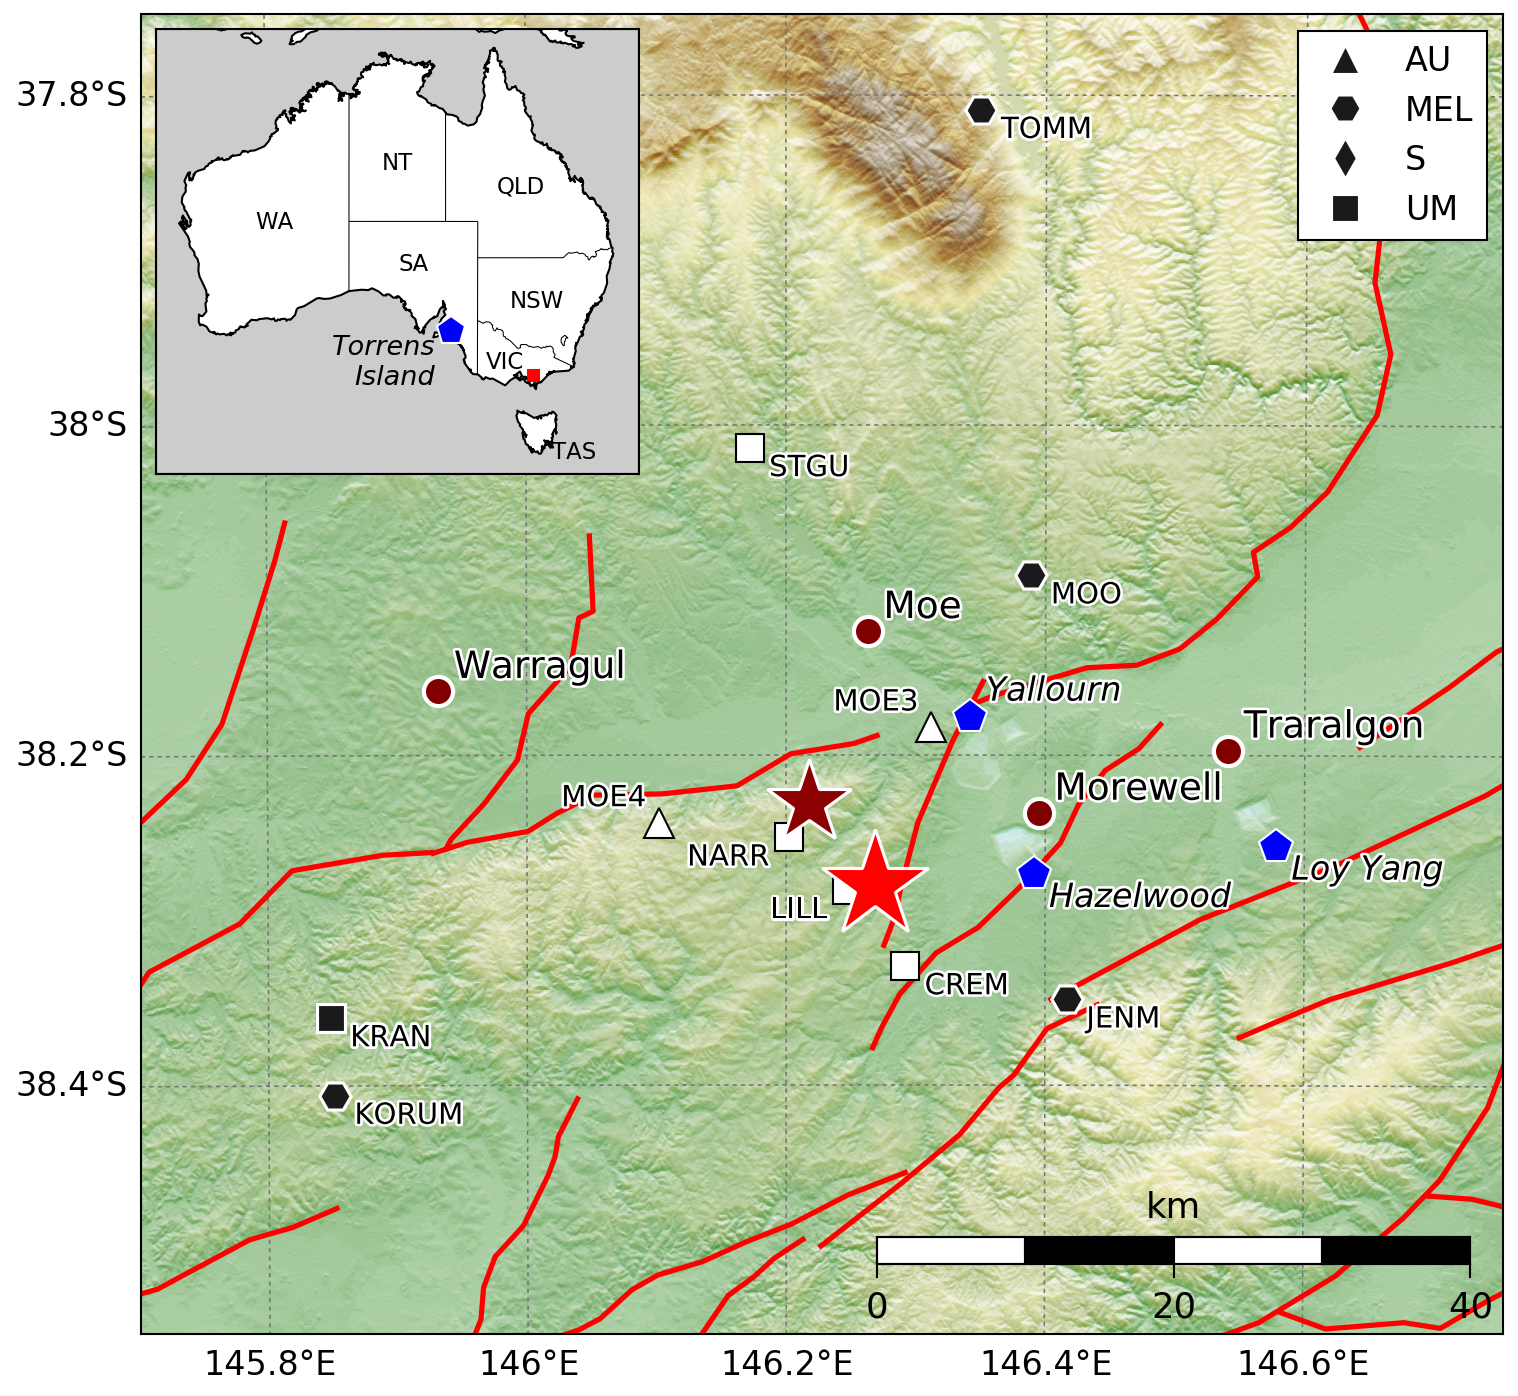
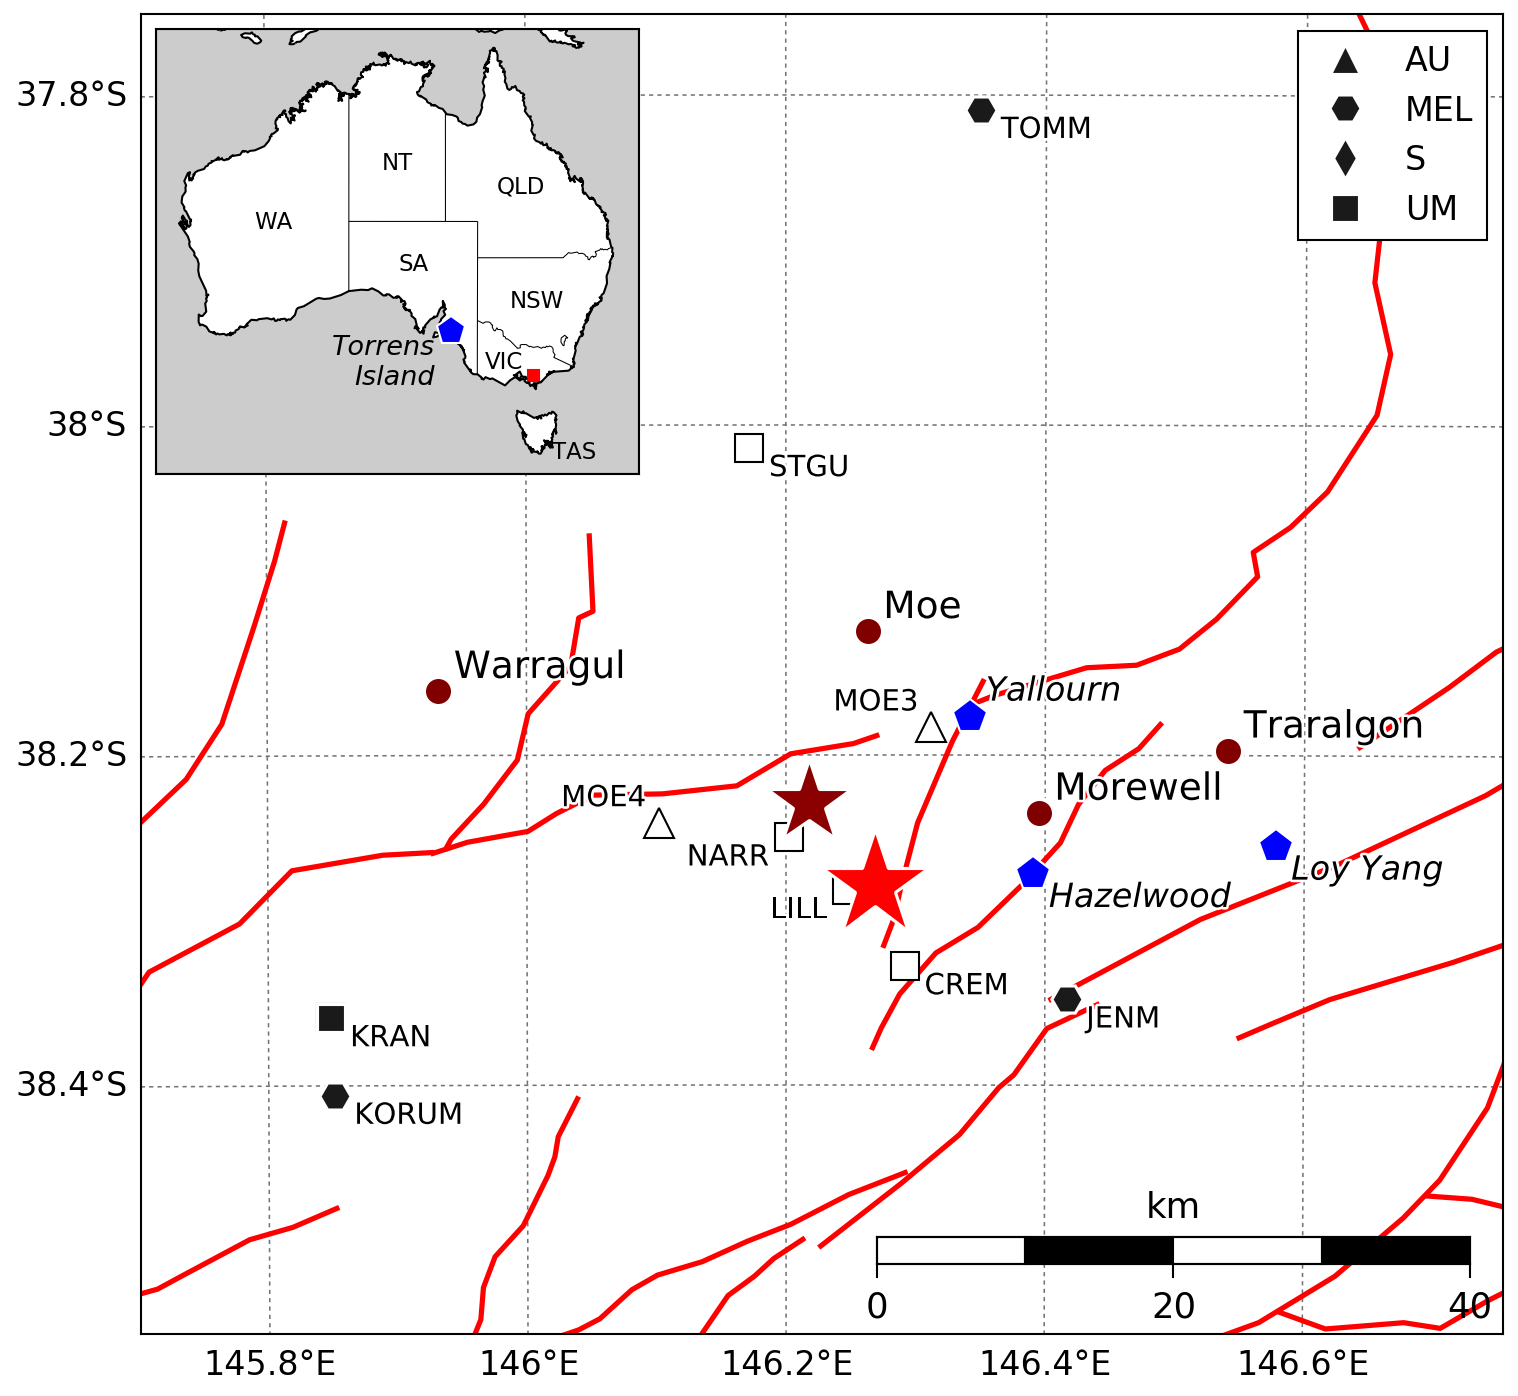
fixing map annotation

diff --git a/2020/2012_moe_earthquake/moe_mmi_atten.py b/2020/2012_moe_earthquake/moe_mmi_atten.py
@@ -3,11 +3,13 @@ from mmi_tools import allen_etal_2012_rrup_ipe, allen_etal_2012_rhypo_ipe, \
                       atkinson_wald_ceus_ipe, atkinson_wald_cal_ipe, pgm2mmi_worden12, \
                       parse_usgs_dyfi_geocoded, parse_usgs_dyfi_zip, \
                       atkinson_worden_wald14_cal_ipe, atkinson_worden_wald14_ceus_ipe
+from misc_tools import get_mpl2_colourlist
 from calc_oq_gmpes import scr_gsims, crustal_gsims
 from mapping_tools import distance
 from shakemap_tools import write_mmi_obs_raw
 from misc_tools import get_binned_stats_mean
 from numpy import array, arange, log10, exp, logspace, sqrt, isnan, nan, hstack
+from scipy.special import erf
 import matplotlib.pyplot as plt
 import matplotlib as mpl
 mpl.style.use('classic')
@@ -19,7 +21,7 @@ plt.tick_params(labelsize=12)
 
 # event details
 mag = 5.0
-eqdep = 18.0
+eqdep = 18.0 
 eqlat = -38.259
 eqlon = 146.290
 ztor = eqdep
@@ -27,6 +29,7 @@ maxrrup = 410.
 rjb = logspace(0, log10(maxrrup), 50)
 rrup = sqrt(rjb**2 + eqdep**2)
 rhypo = rrup
+repi = rjb
 rake = 90. # USGS CMT
 dip  = 30.
 vs30 = 360.
@@ -49,7 +52,7 @@ for i in range(0, len(galat)):
     garepi.append(distance(eqlat, eqlon, galat[i], galon[i])[0])
 garhyp = sqrt(array(garepi)**2 + eqdep**2)
 # now plot
-h7 = plt.semilogx(garepi, gammi, 'x', lw=2., color='0.25', ms=7)
+d1 = plt.semilogx(garepi, gammi, 'x', lw=2., color='0.25', ms=7)
 
 ####################################################################################
 # now read GA MMI data at 0.05d grid
@@ -69,7 +72,7 @@ for i in range(0, len(mellat)):
     melrepi.append(distance(eqlat, eqlon, mellat[i], mellon[i])[0])
 melrhyp = sqrt(array(melrepi)**2 + eqdep**2)
 # now plot
-h8 = plt.semilogx(melrepi, melmmi, 'o', lw=2., markerfacecolor='None', markeredgecolor='0.25', ms=7)
+d2 = plt.semilogx(melrepi, melmmi, 'o', lw=2., markerfacecolor='None', markeredgecolor='0.25', ms=7)
 
 ####################################################################################
 # now read and plot DYFI data
@@ -95,16 +98,39 @@ for i in range(0, len(dyfilat)):
 dyfirhyp = sqrt(array(dyfirepi)**2 + eqdep**2)
 
 # now plot
-h9 = plt.semilogx(dyfirepi, dyfimmi, '+', lw=2., color='0.25', ms=9)
+d3 = plt.semilogx(dyfirepi, dyfimmi, '+', lw=2., color='0.25', ms=9)
 
 # write DYFI MMI4SM
 write_mmi_obs_raw('DYFI', dyfidict)
+
+####################################################################################
+# parse AU ipe
+####################################################################################
+lines = open('../au_ipe/au_ipe_coefs.dat').readlines()
+
+vert = 7.
+c0 = float(lines[1].strip().split()[-1]) 
+c1 = float(lines[2].strip().split()[-1]) 
+c2 = float(lines[3].strip().split()[-1]) 
+c3 = float(lines[4].strip().split()[-1]) 
+rref = float(lines[5].strip().split()[-1]) 
+xh = float(lines[6].strip().split()[-1]) 
+h1 = float(lines[7].strip().split()[-1]) 
+h2 = float(lines[8].strip().split()[-1]) 
+h3 = float(lines[9].strip().split()[-1]) 
+
+# Allen 2019 deep
+A19_deep = c0 * mag + c1 + c2 * log10(sqrt(rrup**2 + rref**2)) + (h1*erf((eqdep-vert)/(h2*sqrt(2))) + h3)
 
 ####################################################################################
 # plot models   
 
 # do AW07 CEUS
 AW07ceus, sig = atkinson_wald_ceus_ipe(mag, rrup)
+
+# do biased AW07 CEUS
+SMbias = -0.30
+AW07ceus_bias, sig = atkinson_wald_ceus_ipe(mag+SMbias, rrup)
 
 # do AW07 CA
 AW07cal, sig = atkinson_wald_cal_ipe(mag, rrup)
@@ -115,8 +141,11 @@ Aea12rup, Aea12sig = allen_etal_2012_rrup_ipe(mag, rrup, eqdep)
 # do Allen et al 2012 Rhypo
 Aea12hypo, Aea12sig = allen_etal_2012_rhypo_ipe(mag, rrup, eqdep)
 
-# do AWW 14 Cal
-AWW14cal = atkinson_worden_wald14_cal_ipe(mag, rrup, eqdep)
+# do AWW14 CEUS
+AWW14ceus, sig = atkinson_worden_wald14_ceus_ipe(mag, rhypo, repi)
+
+# do AWW14 CA
+AWW14cal, sig = atkinson_worden_wald14_cal_ipe(mag, rhypo)
 
 # do Bea14 - W12 PGA
 logB14pga = [] # tried pgv, but looked really bad!
@@ -150,25 +179,29 @@ B14W12mmiPGV, sig = pgm2mmi_worden12(B14pgv, 'pgv', mag, rrup)
 B14W12mmiPGVnan, sig = pgm2mmi_worden12(B14pgv, 'pgv', nan, nan)
  
 # now plot models
-SMbias = -0.16
+#SMbias = -0.16
+cl = get_mpl2_colourlist()
 
-plt.semilogx(rjb, AW07ceus, '-', color='c', lw=2)
-h2 = plt.semilogx(rjb, AW07ceus+SMbias, '--', color='c', lw=2)
-plt.semilogx(rjb, AW07cal, '-', color='limegreen', lw=2)
-plt.semilogx(rjb, Aea12rup, 'b-', lw=2)
+plt.semilogx(rjb, AW07ceus, '-', color=cl[0], lw=2)
+h2 = plt.semilogx(rjb, AW07ceus_bias, '--', color=cl[0], lw=2)
+plt.semilogx(rjb, AW07cal, '-', color=cl[1], lw=2)
+plt.semilogx(rjb, Aea12rup, '-', c=cl[2], lw=2)
 #plt.semilogx(rjb, Aea12hypo, '--', color='orange', lw=2)
-plt.semilogx(rjb, B14W12mmiPGA, '-', color='orange', lw=2)
-plt.semilogx(rjb, B14W12mmiPGV, '-', color='r', lw=2)
-#plt.semilogx(rhypo, B14W12mmiPGVnan, '--', color='r', lw=2)
+plt.semilogx(rjb, B14W12mmiPGA, '-', color=cl[3], lw=2)
+plt.semilogx(rjb, B14W12mmiPGV, '-', color=cl[4], lw=2)
+plt.semilogx(rjb, AWW14ceus, '-', color=cl[5], lw=2)
+h8 = plt.semilogx(rjb, AWW14cal, '-.', color=cl[6], lw=2)
+#h9 = plt.semilogx(repi, A19_deep, '-', color=cl[7], lw=2)
 
 # make secondary plots to get around color issues
-idx = range(4,51,5)
-h1 = plt.semilogx(rjb[idx], AW07ceus[idx], '-^', color='c', lw=0.25, ms=7, mec='c')
+idx = arange(4,51,5)
+h1 = plt.semilogx(rjb[idx], AW07ceus[idx], '-^', color=cl[0], lw=0.25, ms=7, mec=cl[0])
 #h2 = plt.semilogx(rjb, AW07ceus+SMbias, '--', color='c', lw=0.25)
-h3 = plt.semilogx(rjb[idx], AW07cal[idx], '-v', color='limegreen', lw=0.25, ms=7, mec='limegreen')
-h4 = plt.semilogx(rjb[idx], Aea12rup[idx], '-ob', lw=0.25, ms=7, mec='b')
-h5 = plt.semilogx(rjb[idx], B14W12mmiPGA[idx], '-s', color='orange', lw=0.25, ms=7, mec='orange')
-h6 = plt.semilogx(rjb[idx], B14W12mmiPGV[idx], '-D', color='r', lw=0.25, ms=7, mec='r')
+h3 = plt.semilogx(rjb[idx], AW07cal[idx], '-v', color=cl[1], lw=0.25, ms=7, mec=cl[1])
+h4 = plt.semilogx(rjb[idx], Aea12rup[idx], '-o', c=cl[2], lw=0.25, ms=7, mec=cl[2])
+h5 = plt.semilogx(rjb[idx], B14W12mmiPGA[idx], '-s', color=cl[3], lw=0.25, ms=7, mec=cl[3])
+h6 = plt.semilogx(rjb[idx], B14W12mmiPGV[idx], '-D', color=cl[4], lw=0.25, ms=7, mec=cl[4])
+h7 = plt.semilogx(rjb[idx], AWW14ceus[idx], '-p', color=cl[5], lw=0.25, ms=7, mec=cl[5])
 
 ##################################################################################
 # stack data
@@ -180,11 +213,16 @@ binmmi = hstack((dyfimmi, gammi, melmmi))
 bins = arange(0.05, log10(maxrrup)+0.05, 0.1)
 meanres, stdres, medx, outbins, nperbin = get_binned_stats_mean(bins, log10(binrepi), binmmi)
 
-h10 = plt.errorbar(10**medx, meanres, yerr=stdres, fmt='ks', ms=7) 
+d4 = plt.errorbar(10**medx, meanres, yerr=stdres, fmt='ks', ms=7) 
 
-plt.legend([h1[0], h2[0], h3[0], h4[0], h5[0], h6[0], h7[0], h8[0], h9[0], h10[0]], \
-           ['AW07 CEUS', 'AW07 CEUS + '+r'$\delta$', 'AW07 CA', 'Aea12 Rrup', 'Bea14-Wea12 (PGA)', 'Bea14-Wea12 (PGV)', \
-            'AU MMI', 'MEL MMI', 'USGS DYFI', 'Mean MMI'], fontsize=10, loc=1, numpoints=1)
+leg1 = plt.legend([h1[0], h2[0], h3[0], h4[0], h5[0], h6[0], h7[0], h8[0]], \
+           ['AW07 CEUS', 'AW07 CEUS + '+r'$\delta$', 'AW07 CA', 'Aea12 Rrup', 'Bea14-Wea12 (PGA)', 'Bea14-Wea12 (PGV)', 
+            'AWW14 CEUS', 'AWW14 CA'], fontsize=10, loc=1, numpoints=1)
+
+plt.legend([d1[0], d2[0], d3[0], d4[0]], \
+           ['AU MMI', 'MEL MMI', 'USGS DYFI', 'Mean MMI'], fontsize=10, loc=3, numpoints=1)
+           
+plt.gca().add_artist(leg1)
 
 plt.grid(which='both', color='0.5')
 plt.xlim([8, maxrrup])

diff --git a/2020/2012_moe_earthquake/plt_cum_rate.py b/2020/2012_moe_earthquake/plt_cum_rate.py
@@ -37,7 +37,7 @@ for line in lines:
 # get MFD
 ##########################################################################################
 fig = plt.figure(1, figsize=(16, 7.5))
-ax = plt.subplot(1, 2, 1)
+ax = plt.subplot(1, 2, 2)
 
 mrng = arange(-0.1, 4.5, 0.1)
 mbin2 = diff(mrng)[0] / 2.
@@ -92,11 +92,11 @@ plt.text(xtxt, ytxt, abtxt, size=18, ha='right', va='top', weight='normal', bbox
 xdiff = diff(ax.get_xlim())
 xtxt = ax.get_xlim()[0] + xdiff * 0.02
 ytxt = get_log_xy_locs(ax.get_ylim(), 0.98)
-plt.text(xtxt, ytxt, 'A', size=20, ha='left', verticalalignment='top', weight='normal')
+plt.text(xtxt, ytxt, '(b)', size=20, ha='left', verticalalignment='top', weight='normal')
 
 plt.grid(b=True, which='both',axis='both')
 
-ax = plt.subplot(1, 2, 2)
+ax = plt.subplot(1, 2, 1)
 n_bins = len(evdt)
 nbins = 1000
 plt.hist(evdt, n_bins, histtype='step', ec='k', cumulative=True, lw=1.5)
@@ -126,7 +126,7 @@ ax.annotate('2012-07-20 ML 4.4', xy=([evdt[m4idx], m4idx+1]), xytext=(datetime(2
                                     
 xtxt = get_log_xy_locs(ax.get_xlim(), 0.02)            
 ytxt = ax.get_ylim()[1] * 0.98
-plt.text(xtxt, ytxt, 'B', size=20, ha='left', verticalalignment='top', weight='normal')
+plt.text(xtxt, ytxt, '(a)', size=20, ha='left', verticalalignment='top', weight='normal')
 
 
 plt.savefig('moe_cum_rate.png', format='png', bbox_inches='tight', dpi=300)

diff --git a/2020/2012_moe_earthquake/make_moe_map_zoom.py b/2020/2012_moe_earthquake/make_moe_map_zoom.py
@@ -64,7 +64,7 @@ else:
     netcdffile = '//Users//trev//Documents//DATA//SRTM03//srtm_66_20//srtm_66_20.grd'
 nc = NetCDFFile(netcdffile)
 
-zscale =20. #colour
+zscale =5. #colour
 data = nc.variables['z'][:] / zscale
 lons = nc.variables['x'][:]
 lats = nc.variables['y'][:]
@@ -209,8 +209,10 @@ if getcwd().startswith('/nas'):
 else:
     lines = open('/Users/trev/Documents/Code/my_codes/stationlist.dat').readlines()
 for stn in stns:
+    #print(stn)
     for line in lines:
         if line.startswith(stn+'\t'):
+            #print(stn)
             dat = line.strip().split('\t')
             lat = float(dat[5])
             lon = float(dat[4])
@@ -277,7 +279,7 @@ else:
     lines = open('/Users/trev/Documents/Code/my_codes/stationlist.dat').readlines()
 for stn in stns:
     for line in lines:
-        if line.startswith(stn):
+        if line.startswith(stn+'\t'):
             dat = line.strip().split('\t')
             lat = float(dat[5])
             lon = float(dat[4])

diff --git a/2020/2012_moe_earthquake/make_moe_map.py b/2020/2012_moe_earthquake/make_moe_map.py
@@ -121,7 +121,7 @@ stnet = []
 lines = open('/Users/trev/Documents/Code/my_codes/stationlist.dat').readlines()
 for stn in stns:
     for line in lines:
-        if line.startswith(stn):
+        if line.startswith(stn+'\t'):
             dat = line.strip().split('\t')
             lat = float(dat[5])
             lon = float(dat[4])
